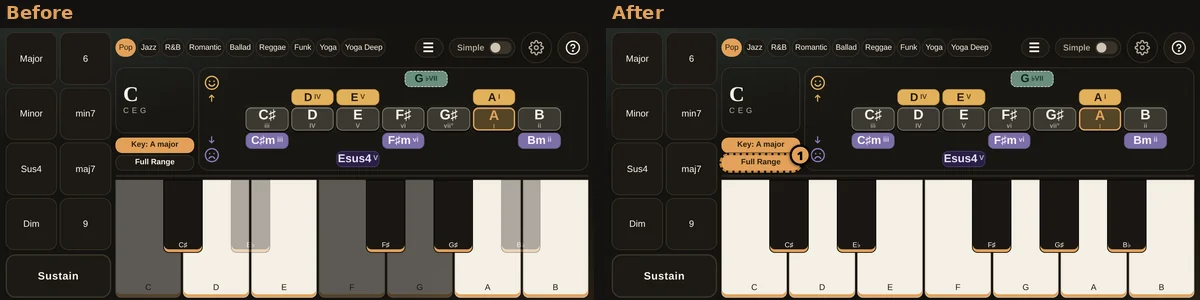
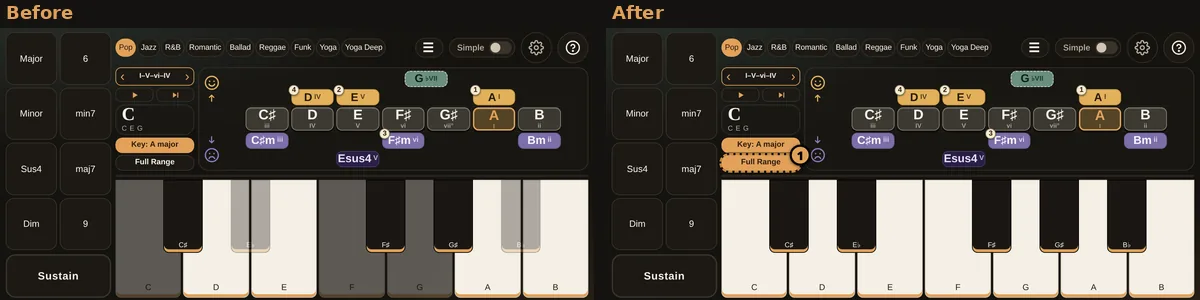
v56: Noff's v55 How to pictures (all 12, Songs/Progressions placeholders replaced); progression badges sit outside their chip (corner or edge, never on a chord name, numeral or note name; >=10px text, full portrait 14px); 3+ step chips show the current/next step and a count (Blues C7 '3+4', full lis

diff --git a/index.html b/index.html
@@ -1447,9 +1447,23 @@ html.lay-pad-land:not(.simple) .prog { margin-left: calc(var(--rail-w) + var(--g
   box-shadow: 0 1px 2px rgba(0, 0, 0, .55); touch-action: none; cursor: pointer; }
 .ss .pg-badge.on { background: var(--copper); }
 html.simple .ss .pg-badge { min-width: 19px; height: 19px; line-height: 17px; font-size: 12.5px; border-radius: 10px; padding: 0 4px; }
-html.lay-phone-port:not(.simple) .ss .pg-badge { min-width: 12px; height: 12px; line-height: 10px; font-size: 8.5px; padding: 0 2px; }
+html.lay-phone-port:not(.simple) .ss .pg-badge { min-width: 14px; height: 14px; line-height: 12px; font-size: 10px; padding: 0 2px; border-radius: 7px; }
 html.lay-pad-land .ss .pg-badge, html.lay-pad-port .ss .pg-badge { min-width: 22px; height: 22px; line-height: 20px; font-size: 14px; border-radius: 11px; padding: 0 5px; }
 .ss .ss-chip.tmp { opacity: .9; }
+/* v56: "3+4" = step 3 (current or next) and 4 more steps on this chord. */
+.ss .pg-badge small { font-size: 1em; font-weight: 600; opacity: .72; margin-left: 1px; }
+/* v56: bigger hit areas for Play / Next (drawn size and layout unchanged). */
+.pg-btn { position: relative; }
+.pg-btn::after { content: ""; position: absolute; inset: -3px; }
+html.lay-phone-land:not(.simple) .pg-btn { z-index: 2; }
+html.lay-phone-land:not(.simple) .pg-btn::after { inset: -2px -2px -21px; }
+html.lay-phone-port:not(.simple) .pg-btn::after { inset: -1px -4px; }
+html.lay-phone-port:not(.simple) .pg-play::after { top: -6px; }
+html.lay-phone-port:not(.simple) .pg-step::after { bottom: -8px; }
+/* v56: phone portrait full mode: the cycler width comes from the bar, not from its text. */
+html.lay-phone-port.prog-top:not(.simple) .prog { flex: 1 1 0; width: 0; min-width: 0; max-width: none; }
+html.lay-phone-port.prog-top:not(.simple) .topbar .spacer { flex: 0 0 0; }
+html.lay-phone-port:not(.simple) .pg-btn { width: 38px; }
 /* Last-resort squeeze (one long name in a narrow column, e.g. B\266d7sus4 at 667 px): no side padding. */
 html:not(.simple) .ss.tight .ss-chip.sq { padding-left: 0; padding-right: 0; }
 .ss .ss-chip.pg-on { transform: scale(.92); filter: brightness(1.25); }
@@ -1479,43 +1493,43 @@ html:not(.simple) .ss.tight .ss-chip.sq { padding-left: 0; padding-right: 0; }
     <div class="ht-box">
       <div class="ht-bar"><button type="button" class="ht-x" aria-label="Close">&#10005;</button></div>
       <section><h3>About Touch Chord</h3>
-      <img src="images/howto-why.webp?v=55" alt="Touch Chord in Simple mode: Now, key, Sustain and the chord grid" width="1200" height="555" loading="lazy" decoding="async">
+      <img src="images/howto-why.webp?v=56" alt="Touch Chord in Simple mode: Now, key, Sustain and the chord grid" width="1000" height="462" loading="lazy" decoding="async">
       <p class="ht-why">Touch Chord turns one finger into a full chord.<br>It's for anyone who wants to play chords without reading music.<br>A chord is 3 or more notes played at once. Chords that sound good together make up a key.</p>
       <ul><li><b>Learn chords:</b> try a random chord and see its name and notes.</li><li><b>Sing along:</b> play chords under your voice.</li><li><b>Beginner to making music:</b> start with one chord, then follow the suggestions into a song.</li></ul></section>
       <h2 class="ht-howto">How-to</h2>
       <section><h3>1. Play a note</h3>
-      <img src="images/howto-simple-1-strip-note.webp?v=55" alt="Tap a note on the scale strip" width="1200" height="555" loading="lazy" decoding="async">
+      <img src="images/howto-simple-1-strip-note.webp?v=56" alt="Tap a note on the scale strip" width="1000" height="462" loading="lazy" decoding="async">
       <p class="cap">Tap a note on the strip (1).</p></section>
       <section><h3>2. Key</h3>
-      <img src="images/howto-simple-2-key.webp?v=55" alt="Key control: swipe the note, tap Major or Minor" width="1200" height="555" loading="lazy" decoding="async">
+      <img src="images/howto-simple-2-key.webp?v=56" alt="Key control: swipe the note, tap Major or Minor" width="1000" height="462" loading="lazy" decoding="async">
       <p class="cap">Swipe the note (1) to change the key. Tap (2) for <b>Major</b> or <b>Minor</b>.</p></section>
       <section><h3>3. Chord chips</h3>
-      <img src="images/howto-simple-3-chips.webp?v=55" alt="Chord chips above and below the strip" width="1200" height="555" loading="lazy" decoding="async">
+      <img src="images/howto-simple-3-chips.webp?v=56" alt="Chord chips above and below the strip" width="1000" height="462" loading="lazy" decoding="async">
       <p class="cap">Tap or hold a chip (1) to play its chord.</p></section>
       <section><h3>4. Sustain</h3>
-      <img src="images/howto-simple-4-sustain.webp?v=55" alt="Sustain lit while the chord rings" width="1200" height="555" loading="lazy" decoding="async">
+      <img src="images/howto-simple-4-sustain.webp?v=56" alt="Sustain lit while the chord rings" width="1000" height="462" loading="lazy" decoding="async">
       <p class="cap">Play (1), hold <b>Sustain</b> (2): notes ring and fade. Let go to stop.</p></section>
       <section><h3>5. Style</h3>
-      <img src="images/howto-simple-5-style.webp?v=55" alt="Style picker" width="1200" height="555" loading="lazy" decoding="async">
+      <img src="images/howto-simple-5-style.webp?v=56" alt="Style picker" width="1000" height="462" loading="lazy" decoding="async">
       <p class="cap">Tap a style (1). It changes the sound and the chords.</p></section>
       <section><h3>6. Songs</h3>
-      <img src="images/howto-simple-6-progressions.webp?v=55" alt="Progression row under Major and Minor: swipe the name, tap play" width="1000" height="462" loading="lazy" decoding="async">
+      <img src="images/howto-simple-6-progressions.webp?v=56" alt="Progression row under Major and Minor: swipe the name, tap play" width="1000" height="462" loading="lazy" decoding="async">
       <p class="cap">Swipe the name (1) to pick a song. Tap &#9654; (2) to play it over and over. The numbers (3) show the order: tap one to play it.</p></section>
       <h2 class="ht-howto">In full mode</h2>
       <section><h3>Suggestions</h3>
-      <img src="images/howto-full-1-suggestions.webp?v=55" alt="Full-mode suggestion box: chord chips with small Roman numerals" width="1000" height="462" loading="lazy" decoding="async">
+      <img src="images/howto-full-1-suggestions.webp?v=56" alt="Full-mode suggestion box: chord chips with small Roman numerals" width="1000" height="462" loading="lazy" decoding="async">
       <p class="cap">Same chips and notes as Simple (1). The small Roman numerals (2), like <b>I</b>, <b>IV</b> and <b>V</b>, show where each chord sits in the key.</p></section>
       <section><h3>Make a chord</h3>
-      <img src="images/howto-full-2-make-chord.webp?v=55" alt="Hold maj7, tap A, Now reads Amaj7" width="1000" height="462" loading="lazy" decoding="async">
+      <img src="images/howto-full-2-make-chord.webp?v=56" alt="Hold maj7, tap A, Now reads Amaj7" width="1000" height="462" loading="lazy" decoding="async">
       <p class="cap">Hold <b>maj7</b> (1), tap <b>A</b> (2) = <b>Amaj7</b>.</p></section>
       <section><h3>Keyboard</h3>
-      <img src="images/howto-full-3-keyboard.webp?v=55" alt="Piano keyboard: each key plays a chord" width="1000" height="462" loading="lazy" decoding="async">
+      <img src="images/howto-full-3-keyboard.webp?v=56" alt="Piano keyboard: each key plays a chord" width="1000" height="462" loading="lazy" decoding="async">
       <p class="cap">Tap a key (1) to play its chord.</p></section>
       <section><h3>Full Range</h3>
-      <img src="images/howto-full-4-fullrange.webp?v=55" alt="Before: gray keys. After Full Range: all keys on" width="1200" height="300" loading="lazy" decoding="async">
+      <img src="images/howto-full-4-fullrange.webp?v=56" alt="Before: gray keys. After Full Range: all keys on" width="1200" height="300" loading="lazy" decoding="async">
       <p class="cap">Gray keys are outside your key. Tap <b>Full Range</b> (1) to play them all.</p></section>
       <section><h3>Progressions</h3>
-      <img src="images/howto-full-5-progressions.webp?v=55" alt="Progression picker: Roman numerals between arrows, play and Next" width="1000" height="462" loading="lazy" decoding="async">
+      <img src="images/howto-full-5-progressions.webp?v=56" alt="Progression picker: Roman numerals between arrows, play and Next" width="1000" height="462" loading="lazy" decoding="async">
       <p class="cap">&#8249; &#8250; (1) picks a progression, shown in Roman numerals. &#9654; (2) loops it, one chord per bar. <b>Next</b> (3) plays one chord at a time.</p></section>
       <p class="ht-end">Sound and FX live in the gear's <b>Advanced</b> settings.</p>
       <dl class="ht-legend"><dt>Simple</dt><dd>Simple on/off</dd><dt>&#9881;</dt><dd>Settings (Advanced: sound, FX)</dd><dt>?</dt><dd>This guide</dd></dl>
@@ -1680,7 +1694,7 @@ html:not(.simple) .ss.tight .ss-chip.sq { padding-left: 0; padding-right: 0; }
 <script>
 "use strict";
 // Bump every build. Shown in Config so a cached copy reports its real version.
-var APP_VERSION = 55;
+var APP_VERSION = 56;
 document.addEventListener("DOMContentLoaded", function () {
   var v = document.getElementById("appVersion");
   if (v) v.textContent = "Version " + APP_VERSION;
@@ -4775,9 +4789,10 @@ function accSym(s) {
 
   var prog = { style: null, mode: null, keySig: null, key: null, idx: 0, list: [], steps: [], targets: [], badges: [],
     cur: -1, playing: false, timer: 0, si: 0, nextT: 0, groups: [], gid: 0, uiT: [], flashT: 0, log: [], tmp: 0, unplaced: 0, model: null };
-  window.__prog = prog;
-  // Test hook (read-only use in checks): data and the player entry points.
-  window.__progApi = { data: PROGRESSIONS, steps: function (k, p) { return progSteps(k, p); }, numerals: function (st) { return progNumerals(st); }, set: function (i) { progSet(i); }, play: function () { progPlay(); }, stop: function () { progStop(); }, next: function () { progNext(); }, bar: PROG_BAR };
+  // Test hooks only with ?test=1 (not in normal use).
+  var PROG_TEST = /[?&]test=1(&|$)/.test(location.search);
+  if (PROG_TEST) window.__prog = prog;
+  if (PROG_TEST) window.__progApi = { data: PROGRESSIONS, steps: function (k, p) { return progSteps(k, p); }, numerals: function (st) { return progNumerals(st); }, set: function (i) { progSet(i); }, play: function () { progPlay(); }, stop: function () { progStop(); }, next: function () { progNext(); }, bar: PROG_BAR };
 
   // Called when the strip is rebuilt: a style change goes back to the style's first
   // progression; a key or style change stops the progression loop.
@@ -4855,9 +4870,9 @@ function accSym(s) {
       var t = g.el, bd = document.createElement("span");
       var nums = g.steps.map(function (i) { return i + 1; });
       bd.className = "pg-badge" + (t.classList.contains("ss-note") ? " on-note" : "") + (nums.length > 1 ? " multi" : "");
-      bd.textContent = nums.length > 3 ? nums.slice(0, 2).join("\u00b7") + "\u2026" : nums.join("\u00b7");
       bd.setAttribute("role", "button");
       bd.setAttribute("aria-label", "Progression step " + nums.join(", "));
+      bd.title = "Step " + nums.join(", ");
       bd.addEventListener("pointerdown", function (e) { e.preventDefault(); e.stopPropagation(); progBadge(g.steps); });
       bd.addEventListener("click", function (e) { e.stopPropagation(); });
       el.appendChild(bd);
@@ -4865,13 +4880,73 @@ function accSym(s) {
     });
     paintProgActive();
   }
-  // Badges sit on their chip's top-left corner (absolute, so they never change the grid or the
-  // chip fit); placed after every fit / resize.
+  // v56: badge text. Up to 2 steps: all of them ("1\u00b76"). More (Blues C7 = 1, 3, 4, 7, 11): the
+  // current or next step for that chip and how many more ("3 +4"); the full list is in the label.
+  function badgeText(b) {
+    var nums = b.steps.map(function (i) { return i + 1; });
+    if (nums.length <= 2) return nums.join("\u00b7");
+    var at = b.steps.indexOf(prog.cur) >= 0 ? prog.cur : null;
+    if (at === null) {
+      for (var i = 0; i < b.steps.length; i++) if (b.steps[i] > prog.cur) { at = b.steps[i]; break; }
+      if (at === null) at = b.steps[0];
+    }
+    return (at + 1) + "<small>+" + (nums.length - 1) + "</small>";
+  }
+  // v56: badges sit just OUTSIDE their chip, on a corner or edge, never on any chord name,
+  // numeral or note name: each badge takes the first spot (corners, then along the edges) that
+  // covers no text, stays inside the panel and misses the other badges.
   function placeBadges() {
+    var el = document.getElementById("suggest");
+    if (!el || !prog.badges.length) return;
+    var sr = el.getBoundingClientRect();
+    var pr = el.parentNode.getBoundingClientRect();
+    var texts = [];
+    Array.prototype.forEach.call(el.querySelectorAll(".ss-chip .r, .ss-chip .q, .ss-chip .rn, .ss-note .nn, .ss-note small"), function (n) {
+      if (!n.textContent || getComputedStyle(n).display === "none") return;
+      var q = n.getBoundingClientRect();
+      if (q.width > 0 && q.height > 0) texts.push(q);
+    });
+    // Never over the buttons above the panel either (a badge may poke a little above it).
+    Array.prototype.forEach.call(document.querySelectorAll("button, .prog"), function (n) {
+      if (el.contains(n)) return;
+      var q = n.getBoundingClientRect();
+      if (q.width > 0 && q.bottom > pr.top - 12 && q.top < pr.top) texts.push(q);
+    });
+    var placed = [];
+    function ov(a, b) {
+      var w = Math.min(a.right, b.right) - Math.max(a.left, b.left), h = Math.min(a.bottom, b.bottom) - Math.max(a.top, b.top);
+      return w > 0 && h > 0 ? w * h : 0;
+    }
     prog.badges.forEach(function (b) {
-      var t = b.target;
-      b.el.style.left = Math.round(t.offsetLeft - b.el.offsetWidth * 0.3) + "px";
-      b.el.style.top = Math.round(t.offsetTop - b.el.offsetHeight * 0.38) + "px";
+      b.el.innerHTML = badgeText(b);
+      var t = b.target.getBoundingClientRect();
+      var bw = b.el.offsetWidth, bh = b.el.offsetHeight, k = 3;
+      var L = t.left - bw + k, R = t.right - k, T = t.top - bh + k, B = t.bottom - k, ym = t.top + (t.height - bh) / 2, f;
+      // Corners on top, then the sides, then along the top edge, then the bottom (reads as the
+      // chip below, so last), then just inside a corner as a fallback.
+      var cands = [[L, T], [R, T], [t.left - bw + 1, ym], [t.right - 1, ym]];
+      for (f = 0.25; f < 1; f += 0.25) cands.push([t.left + (t.width - bw) * f, t.top - bh + 2]);
+      cands.push([t.left - bw + 1, t.top - bh / 2], [t.right - 1, t.top - bh / 2], [t.left - bw + 1, t.bottom - bh / 2], [t.right - 1, t.bottom - bh / 2]);
+      cands.push([L, B], [R, B]);
+      for (f = 0.25; f < 1; f += 0.25) cands.push([t.left + (t.width - bw) * f, t.bottom - 2]);
+      cands.push([L, t.top + 1], [R, t.top + 1], [t.left - bw * 0.3, t.top - bh * 0.38], [t.right - bw * 0.7, t.top - bh * 0.38]);
+      var best = null;
+      cands.forEach(function (c, ci) {
+        var r = { left: c[0], top: c[1], right: c[0] + bw, bottom: c[1] + bh };
+        var sc = 0;
+        texts.forEach(function (q) { sc += ov(r, q) * 100; });
+        placed.forEach(function (q) { sc += ov(r, q) * 50; });
+        // Inside the panel; poking up to 60% of its height over the top edge (like a notification badge) only
+        // when nothing inside is free.
+        var up = Math.max(0, pr.top - r.top);
+        var allow = Math.round(bh * 0.6);
+        var out = Math.max(0, pr.left - r.left) + Math.max(0, r.right - pr.right) + Math.max(0, up - allow) + Math.max(0, r.bottom - pr.bottom);
+        sc += out * 2000 + Math.min(up, allow) * 5 + ci * 0.01;
+        if (!best || sc < best.sc) best = { sc: sc, r: r };
+      });
+      placed.push(best.r);
+      b.el.style.left = Math.round(best.r.left - sr.left) + "px";
+      b.el.style.top = Math.round(best.r.top - sr.top) + "px";
     });
   }
   function progRedecorate() {
@@ -4889,6 +4964,7 @@ function accSym(s) {
     var t = prog.cur >= 0 ? prog.targets[prog.cur] : null;
     if (t) t.classList.add("pg-on");
     prog.badges.forEach(function (b) { b.el.classList.toggle("on", prog.cur >= 0 && b.steps.indexOf(prog.cur) >= 0); });
+    if (prog.badges.some(function (b) { return b.steps.length > 2; })) placeBadges();
   }
   // Manual step (Next button / badge): play one step like a chip tap, lit while it rings.
   function progJump(i) {
@@ -4960,11 +5036,16 @@ function accSym(s) {
     var st = prog.steps[i];
     setItemState(st.item);
     var spec = computeSpec();
-    var g = "P" + (++prog.gid);
-    ChordAudio.playChord(g, spec.midis, { bass: spec.bassOut, sound: state.sound, time: t });
-    prog.groups.forEach(function (o) { ChordAudio.stopChord(o.g, Math.max(t, o.t)); });
-    prog.groups = [{ g: g, t: t }];
-    prog.log.push({ i: i, t: t, sym: spec.symbol });
+    // v56: the same chord again (Deep drone, Blues C7 C7) is held through, not struck again.
+    var tied = !!(prog.lastItem && prog.groups.length && sameChord(prog.lastItem, st.item));
+    if (!tied) {
+      var g = "P" + (++prog.gid);
+      ChordAudio.playChord(g, spec.midis, { bass: spec.bassOut, sound: state.sound, time: t });
+      prog.groups.forEach(function (o) { ChordAudio.stopChord(o.g, Math.max(t, o.t)); });
+      prog.groups = [{ g: g, t: t }];
+    }
+    prog.lastItem = st.item;
+    prog.log.push({ i: i, t: t, sym: spec.symbol, tied: tied });
     if (prog.log.length > 64) prog.log.shift();
     var tid = setTimeout(function () {
       prog.uiT = prog.uiT.filter(function (x) { return x !== tid; });
@@ -4985,6 +5066,7 @@ function accSym(s) {
     var now = ChordAudio.ctx ? ChordAudio.currentTime() : 0;
     prog.groups.forEach(function (o) { ChordAudio.stopChord(o.g, Math.max(now, o.t + 0.01)); });
     prog.groups = [];
+    prog.lastItem = null;
     prog.cur = -1;
     paintProgActive();
     if (suggestPreview) clearSuggestPreview();
@@ -5071,25 +5153,35 @@ function accSym(s) {
       txt.classList.add(d > 0 ? "nudge-r" : "nudge-l");
       setTimeout(function () { txt.classList.remove("nudge-l", "nudge-r"); }, 140);
     }
-    el.querySelector(".pg-prev").addEventListener("click", function (e) { e.stopPropagation(); step(-1); });
-    el.querySelector(".pg-next").addEventListener("click", function (e) { e.stopPropagation(); step(1); });
     el.querySelector(".pg-play").addEventListener("click", function () { progPlay(); });
     el.querySelector(".pg-step").addEventListener("click", function () { unlock(); progNext(); });
-    // Swipe: one progression per swipe (like the key slider, but never more than one step).
+    // v56: the whole row swipes, arrows included. A tap on an arrow steps once; a horizontal drag
+    // past the threshold steps once (and is not also a tap). One step per gesture.
     var drag = null;
     sel.addEventListener("pointerdown", function (e) {
-      if (e.target.closest(".pg-arrow")) return;
+      if (e.button != null && e.button !== 0) return;
       e.preventDefault();
-      drag = { id: e.pointerId, x: e.clientX, done: false, unit: Math.max(28, sel.clientWidth / 5) };
+      // Tap zones: each arrow plus the outer 30% of the row on its side (small arrows, big targets).
+      var arrow = e.target.closest ? e.target.closest(".pg-arrow") : null, r = sel.getBoundingClientRect();
+      var side = arrow ? (arrow.classList.contains("pg-prev") ? -1 : 1)
+        : e.clientX < r.left + r.width * 0.3 ? -1 : e.clientX > r.right - r.width * 0.3 ? 1 : 0;
+      drag = { id: e.pointerId, x: e.clientX, y: e.clientY, moved: false, done: false,
+        arrow: side, unit: Math.max(24, Math.min(40, sel.clientWidth / 6)) };
       try { sel.setPointerCapture(e.pointerId); } catch (err) {}
     });
     sel.addEventListener("pointermove", function (e) {
-      if (!drag || e.pointerId !== drag.id || drag.done) return;
+      if (!drag || e.pointerId !== drag.id) return;
       e.preventDefault();
       var dx = e.clientX - drag.x;
-      if (Math.abs(dx) >= drag.unit) { drag.done = true; step(dx > 0 ? 1 : -1); }
+      if (Math.abs(dx) > 8 || Math.abs(e.clientY - drag.y) > 8) drag.moved = true;
+      if (!drag.done && Math.abs(dx) >= drag.unit) { drag.done = true; step(dx > 0 ? 1 : -1); }
     });
-    function end(e) { if (drag && e.pointerId === drag.id) drag = null; }
+    function end(e) {
+      if (!drag || e.pointerId !== drag.id) return;
+      var d = drag;
+      drag = null;
+      if (e.type === "pointerup" && !d.done && !d.moved && d.arrow) step(d.arrow);
+    }
     sel.addEventListener("pointerup", end);
     sel.addEventListener("pointercancel", end);
     sel.addEventListener("touchmove", function (e) { e.preventDefault(); }, { passive: false });
